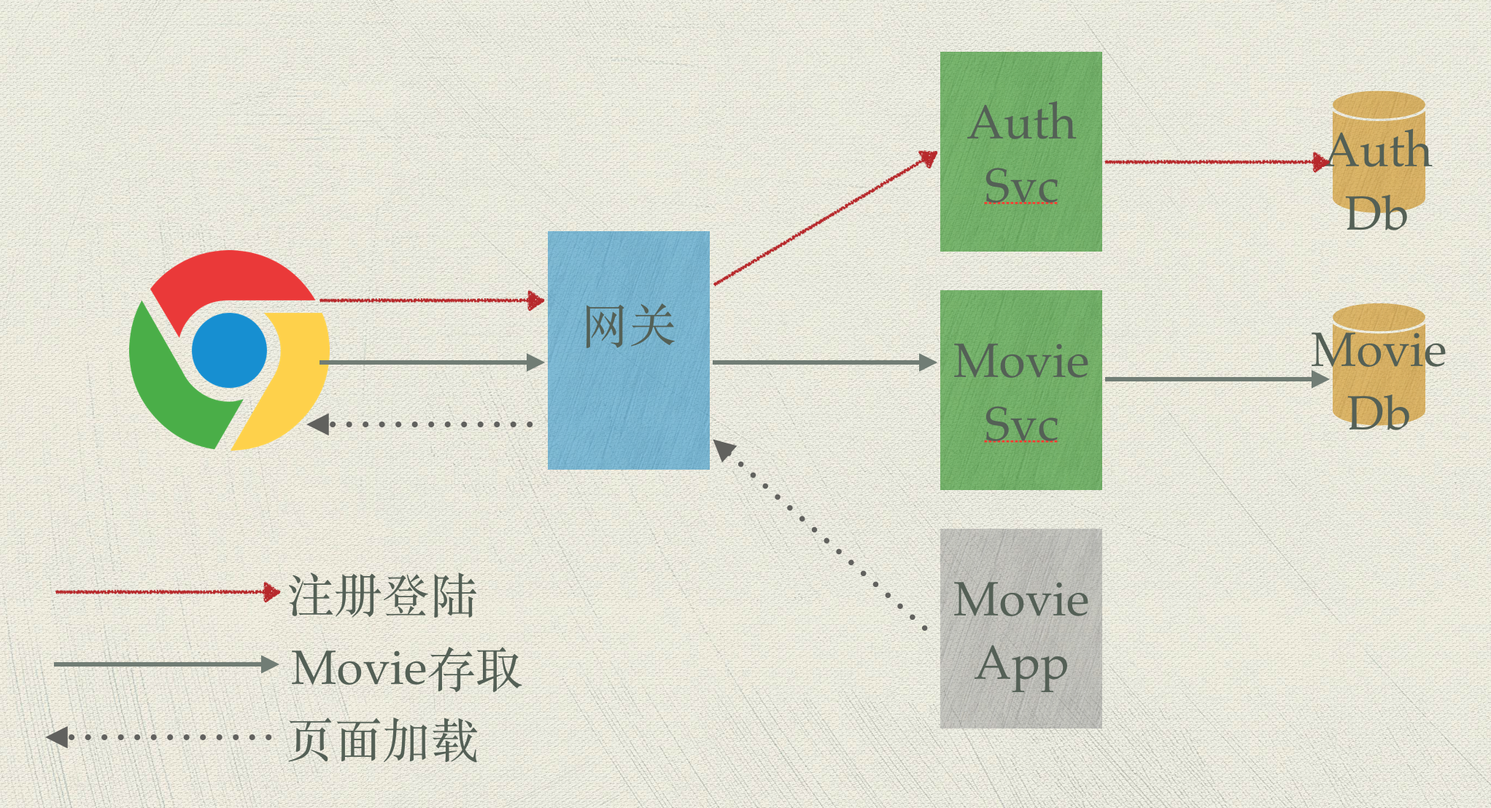
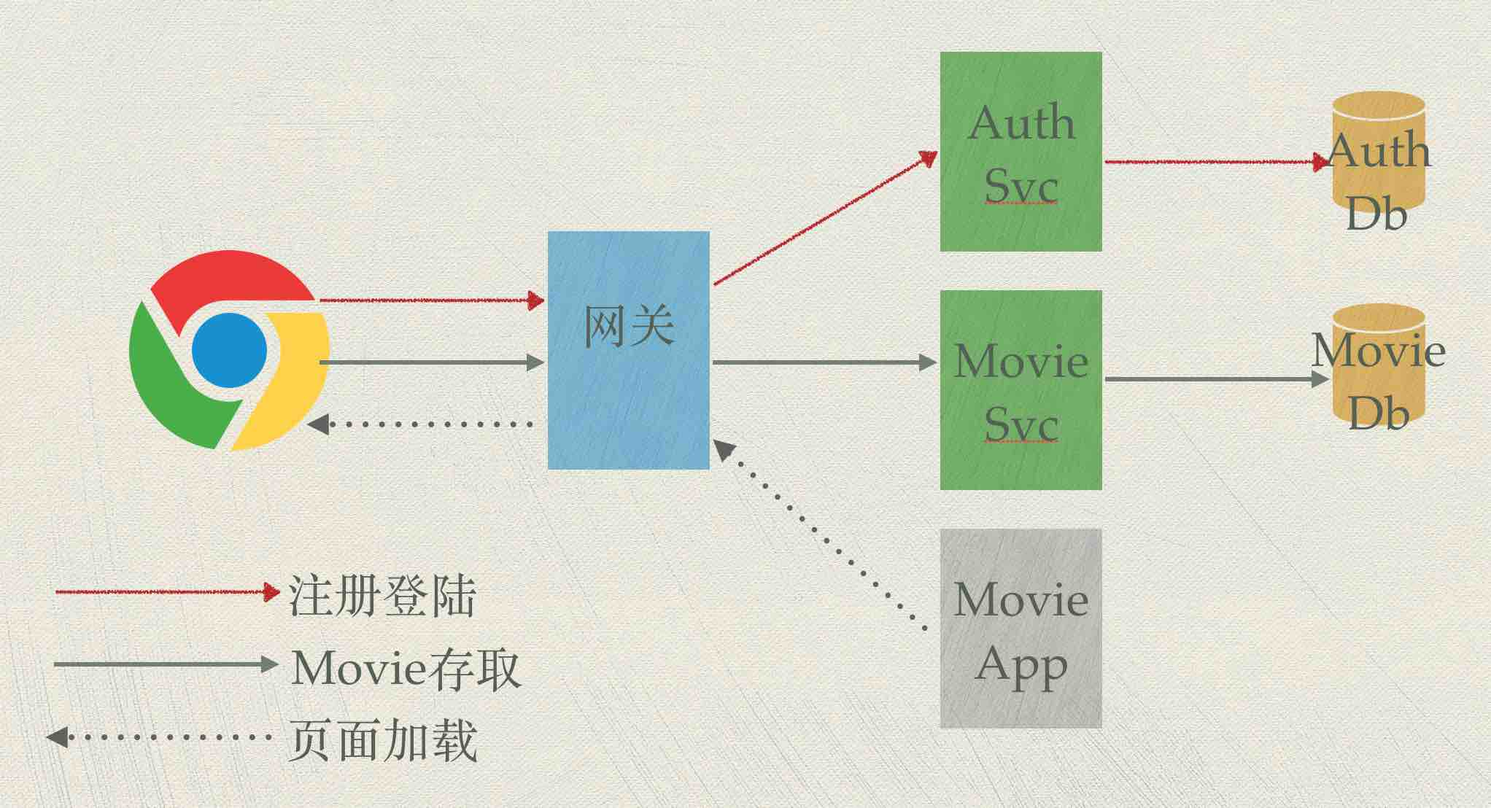
minimize image size

diff --git a/README.md b/README.md
@@ -17,7 +17,7 @@
 * Docker Compose ~ 镜像构建和本地部署
 * Kubernetes ~ 容器调度和部署
 
-![tech stack](doc/img/techstack.png)
+![tech stack](doc/img/techstack.jpg)
 
 ## 目录结构
 * /auth-svc : 用户注册认证服务
